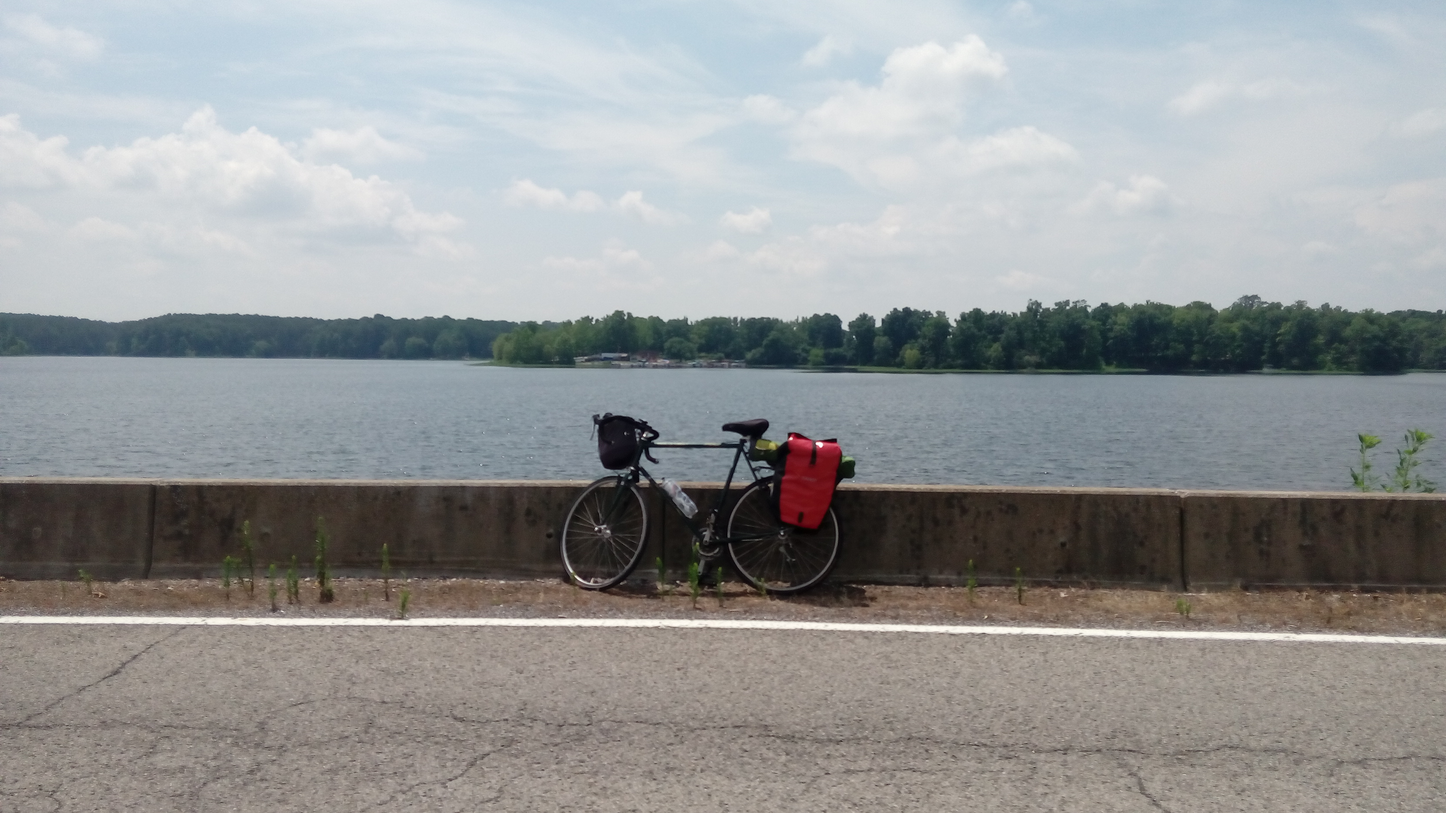
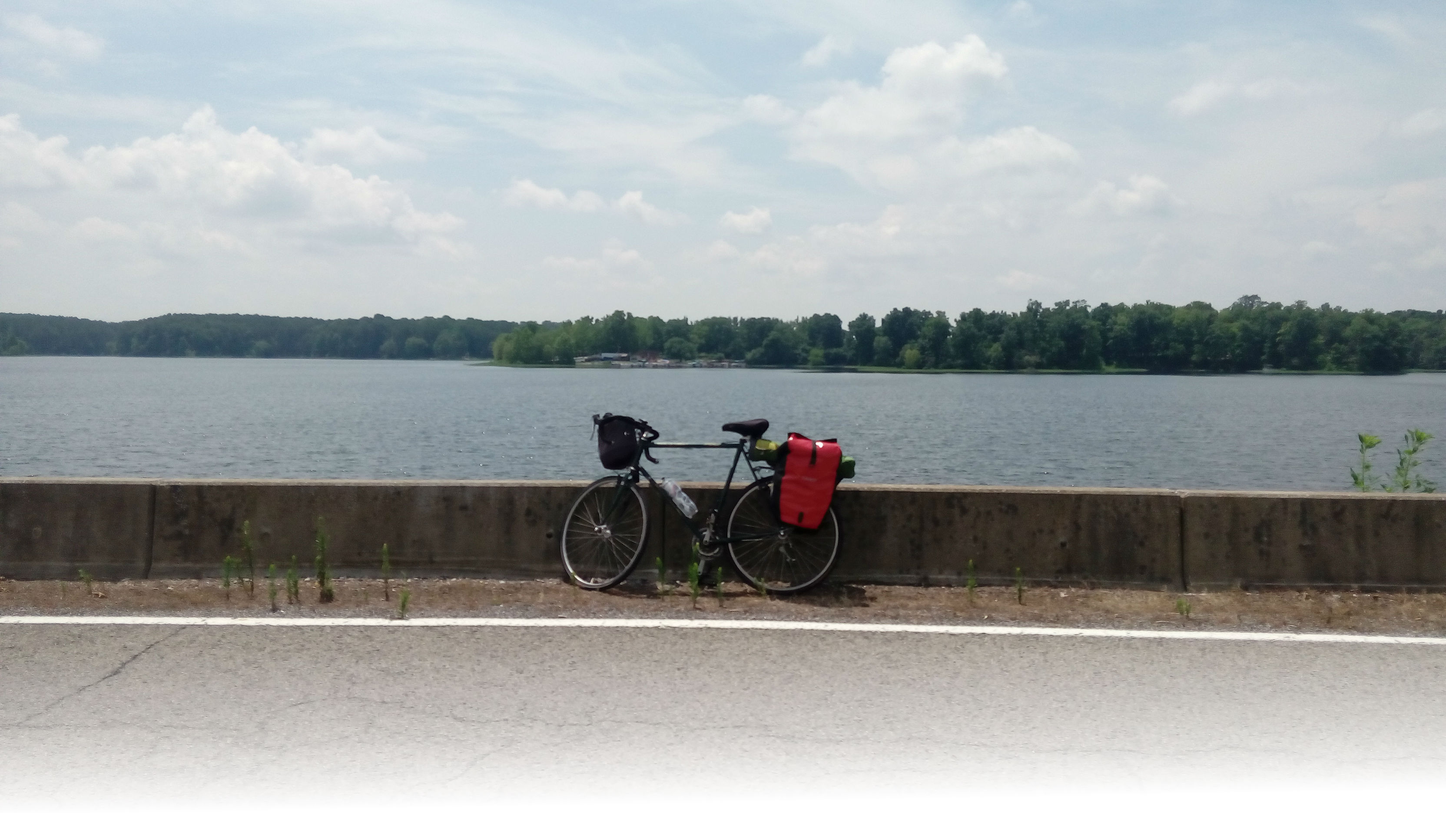
Added a gradient to home-bg and some transparency to the navbar

Changed region(s): [[0.0, 0.8056, 1.0, 1.0]]

diff --git a/css/custom.css b/css/custom.css
@@ -16,7 +16,11 @@ body {
 @media (min-width: 768px) {
   .navbar-custom.top-nav-collapse {
     padding: 0;
-    background: white;
+    background: rgba(255, 255, 255, 0.9);
     border-bottom: 1px solid rgba(0, 0, 0, 1);
   }
+}
+
+.content-section {
+  padding-top: 10px;
 }
